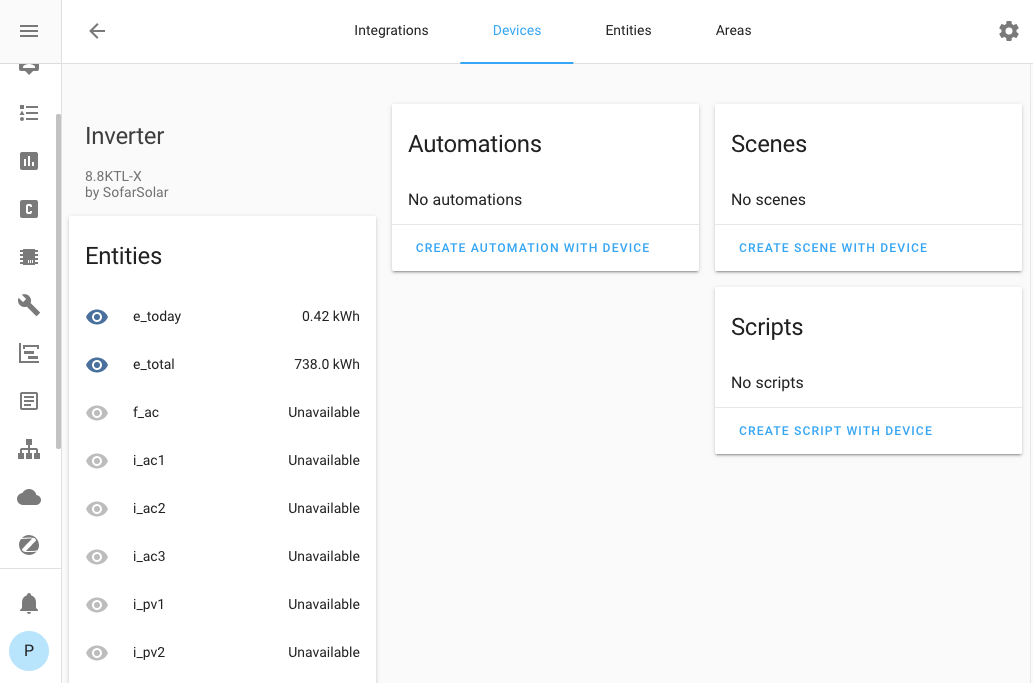
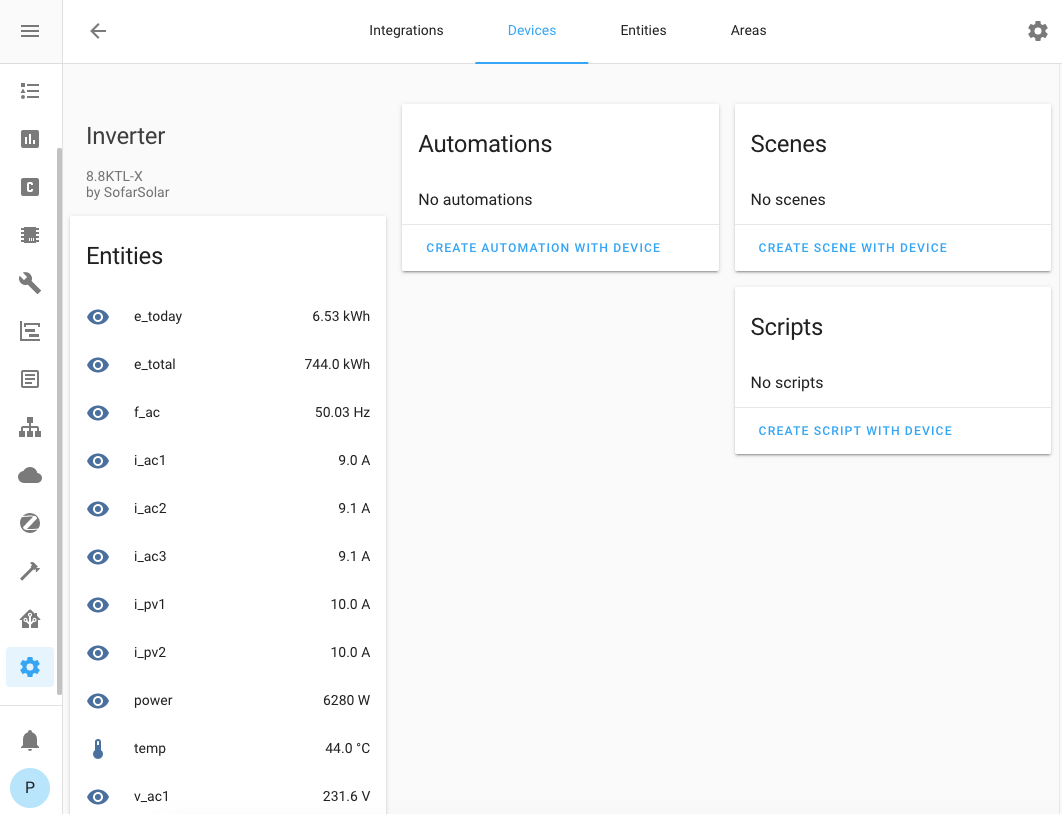
README.md

diff --git a/README.md b/README.md
@@ -146,6 +146,10 @@ You need to conifgure DNS server pointing to IP. The easiest way is to:
 
 ![Inverter][inverter]
 
+## Example dashboard
+
+![Dashboard][dashboard]
+
 ## Known issues and limitations
 
 - Add-on expose port 53 for DNS. There can be a conflict with some deployment on HA. The one which expose DNS port 
@@ -170,3 +174,4 @@ In case you've found a bug, please [open an issue on our GitHub][issue].
 [repository]: https://github.com/hassio-addons/repository
 [device]: ./images/device.png
 [inverter]: ./images/inverter.png
+[dashboard]: ./images/dashboard.png
